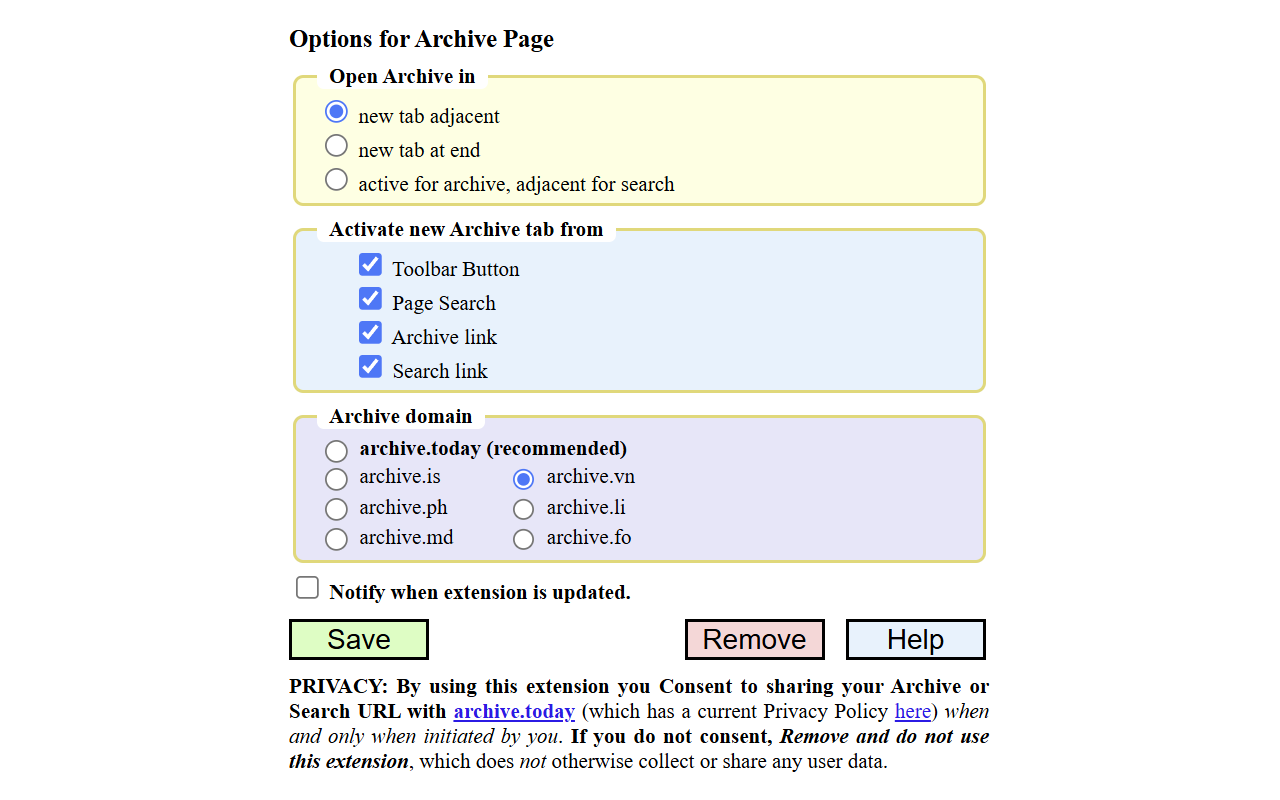
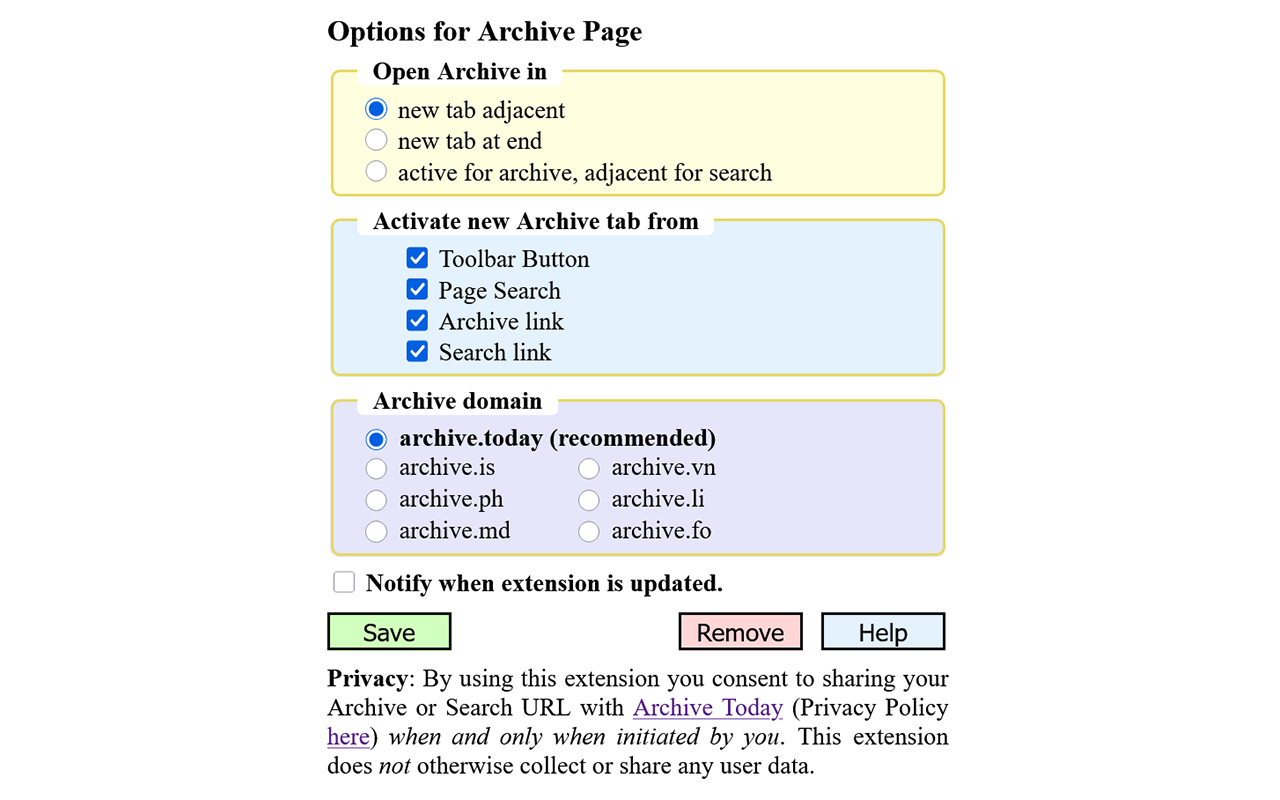
version 1.2.1

Changed region(s): [[0.2188, 0.0312, 0.7812, 0.9688]]

diff --git a/Chrome/options.html b/Chrome/options.html
@@ -6,6 +6,7 @@
 
 <!DOCTYPE html>
 <html>
+
 <head>
     <title>Options for Archive Page</title>
     <meta name="viewport" content="width=device-width, initial-scale=1">
@@ -17,50 +18,59 @@
             margin: 32px auto;
             background: #fff;
         }
+
         h1 {
-  margin: 0;
+            margin: 0;
             font-size: 1.17em;
             font-weight: bold;
         }
+
         fieldset {
             border-radius: 6px;
             padding: 0.3em 1em;
             border: 2px solid #e6d96a;
             margin-top: 6px;
         }
+
         legend {
             background: #fff;
             padding: 0 0.6em;
             border-radius: 4px;
             font-weight: bold;
         }
+
         .responsive-flex {
             display: flex;
             align-items: center;
             margin-top: 8px;
         }
+
         .responsive-flex button {
             min-width: 80px;
             font-size: 1em;
         }
+
         #bHelp {
             background-color: #e3f2fd;
             border: 2px solid #000;
             color: #000;
             font-size: medium;
         }
+
         #bRemove {
             background-color: #FFD6D6;
             border: 2px solid #000;
             color: #000;
             font-size: medium;
         }
+
         #bSave {
             background-color: #D1FFBD;
             border: 2px solid #000;
             color: #000;
             font-size: medium;
         }
+
         #status {
             font-size: large;
             width: 138px;
@@ -69,6 +79,7 @@
             text-align: center;
             margin: 0 4px;
         }
+
         /* Archive domain layout */
         .archive-domain-today-full {
             display: flex;
@@ -78,14 +89,17 @@
             font-weight: bold;
             box-sizing: border-box;
         }
+
         .archive-domain-columns {
             display: flex;
             gap: 2.4em;
         }
+
         .archive-domain-col {
             display: flex;
             flex-direction: column;
         }
+
         .archive-domain-col label {
             display: flex;
             align-items: center;
@@ -93,6 +107,7 @@
             margin-bottom: 0.1em;
             font-weight: normal;
         }
+
         @media (max-width: 600px) {
             body {
                 font-size: 1em;
@@ -100,17 +115,21 @@
                 margin: 0;
                 max-width: 100vw;
             }
+
             h1 {
                 font-size: 1.05em;
             }
+
             fieldset {
                 padding: 0.3em 0.5em !important;
                 margin: 6px 0 !important;
             }
+
             .responsive-flex {
                 flex-wrap: wrap;
                 gap: 8px;
             }
+
             #status {
                 width: 70px !important;
                 min-width: 60px;
@@ -119,6 +138,7 @@
                 flex: 1 1 70px;
                 text-align: center;
             }
+
             .archive-domain-columns {
                 flex-direction: column;
                 gap: 0.5em;
@@ -126,6 +146,7 @@
         }
     </style>
 </head>
+
 <body>
 
     <h1>Options for Archive Page</h1>
@@ -220,15 +241,15 @@
         <button id="bHelp" type="button">Help</button>
     </div>
 
-    <p style="margin-top: 8px; margin-bottom: 8px; text-align: justify;"><strong>Privacy</strong>: By using this extension you consent to sharing
-            your Archive or Search URL
-            with <a href="https://archive.today/">Archive Today</a> (which has a <a
-            href="https://archive.today/faq#:~:text=Do%20you%20preserve%20archivers%27%20privacy%3F">Privacy Policy</a>)
+    <p style="margin-top: 8px; margin-bottom: 8px; text-align: justify;"><strong>Privacy</strong>:
+        By using this extension you consent to sharing your Archive or Search URL with
+        <a href="https://archive.today/">Archive Today</a>
+        (Privacy Policy <a href="https://archive.today/faq#:~:text=Do%20you%20preserve%20archivers%27%20privacy%3F">here</a>)
         <i>when and only when initiated by you</i>.
-        If you do not consent, Remove and do not use this extension,
-        which does <i>not</i> otherwise collect or share any user data.
+        This extension does <i>not</i> otherwise collect or share any user data.
     </p>
 
     <script src="options.js"></script>
 </body>
+
 </html>

diff --git a/Firefox/options.html b/Firefox/options.html
@@ -227,19 +227,19 @@
     </p>
 
     <div class="responsive-flex">
-        <button id="bSave" type="button">Consent & Save</button>
+        <button id="bSave" type="button">Save</button>
         <span id="status">&nbsp;</span>
         <button id="bRemove" type="button">Remove</button>
         <span style="display: inline-block; width: 12px;"></span>
         <button id="bHelp" type="button">Help</button>
     </div>
 
-    <p style="margin-top: 8px; margin-bottom: 8px; text-align: justify;"><strong>PRIVACY: By using this extension you Consent to sharing
+    <p style="margin-top: 8px; margin-bottom: 8px; text-align: justify;"><strong>Privacy</strong>: By using this extension you consent to sharing
             your Archive or Search URL
-            with <a href="https://archive.today/">archive.today</a></strong> (which has a current Privacy Policy <a
+            with <a href="https://archive.today/">Archive Today</a> (current Privacy Policy <a
             href="https://archive.today/faq#:~:text=Do%20you%20preserve%20archivers%27%20privacy%3F">here</a>)
         <i>when and only when initiated by you</i>.
-        <strong>If you do not consent, <i>Remove and do not use this extension</i></strong>,
+        If you do not consent, Remove and do not use this extension,
         which does <i>not</i> otherwise collect or share any user data.
     </p>
 
